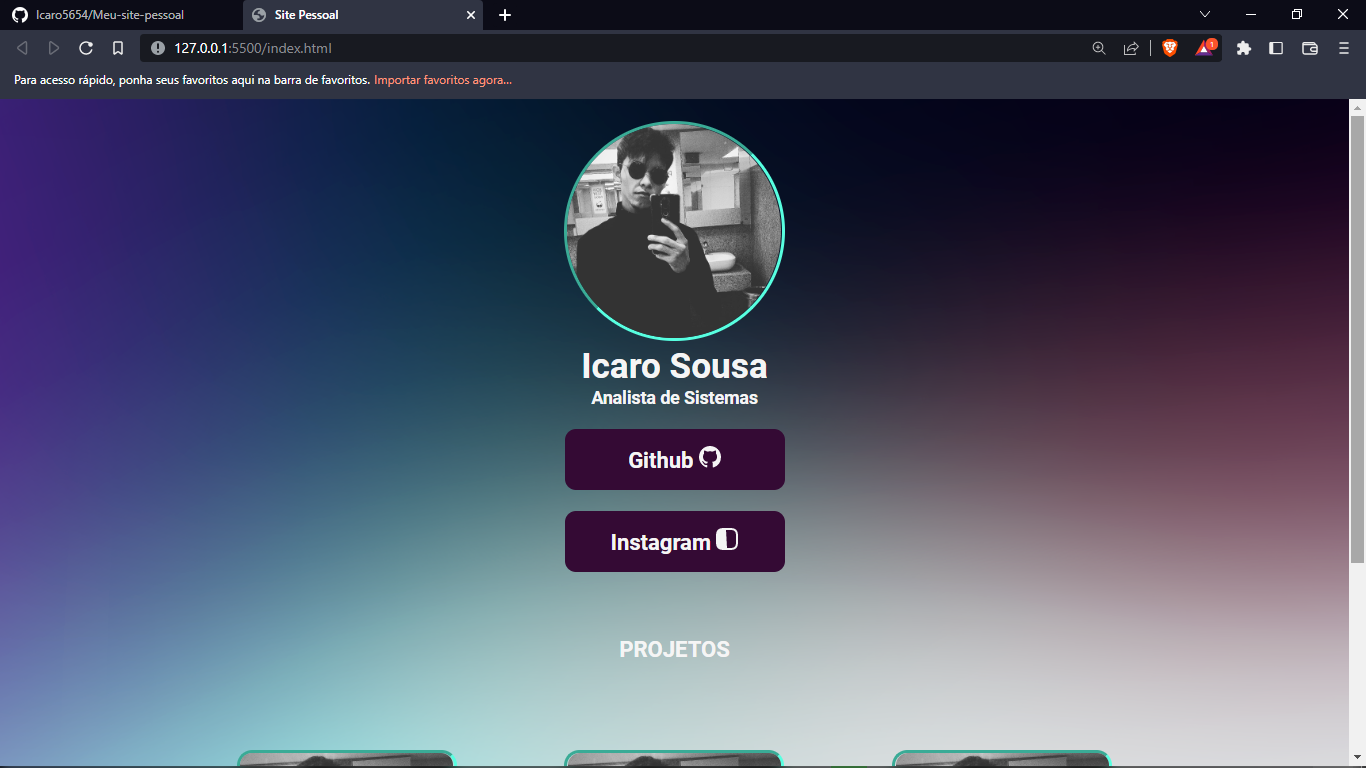
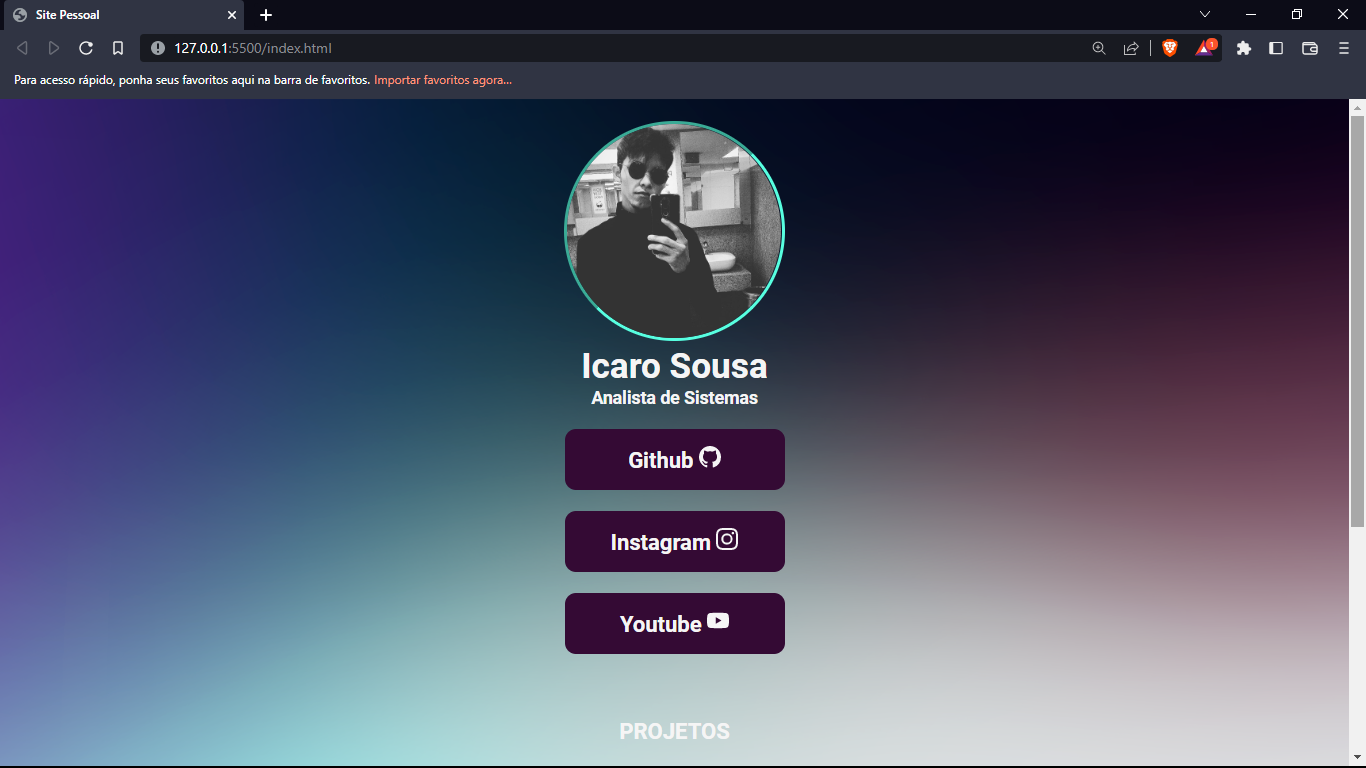
4 commit do site

diff --git a/main.js b/main.js
@@ -1,18 +1,26 @@
 
 //let delay = -0.4;
 
-function createCard(project, preview){
+// CRIANDO FUNÇÃO:
+function createCard(project, preview, link){
     //delay = delay + 0.4;
     return `
     <div class="card" style="width: 18rem;">
-    <img src="/img/${preview}.png" class="card-img" alt="Projeto " width="200">
-    <div class="card-body">
-  <p class="card-text">${project}</p>
+      <a href="${link}" target="__blank__"> <!--link imbutido na imagem--!>
+        <img src="/img/${preview}.png" class="card-img" alt="Projeto " width="200">
+      </a>
+      <div class="card-body">
+        <p class="card-text">${project}</p>
+      </div>
     </div>
-</div>
     `
 }
 
+// CHAMANDO FUNÇÃO:
 document.querySelector("#cards").innerHTML = 
+// os intens estanos na seguinte ordem: ( PROJETO, PREVIEW, LINK )
+createCard("Em breve", "surpresa", "https://github.com/Icaro5654/Calendario-da-Copa.git") + 
 
-createCard("Em breve", "Icaro2") + createCard("Em breve", "Icaro2") + createCard("Em breve", "Icaro2")
+createCard("Em breve", "surpresa", "#") + 
+
+createCard("Em breve", "surpresa", "#")

diff --git a/index.html b/index.html
@@ -15,7 +15,7 @@
 <body>
     <main>
         <div id="content">   
-            <img id="photo" src="/img/Icaro2.png" alt="Icaro">
+            <img id="photo" src="/img/perfil.png" alt="Icaro">
             <h1>Icaro Sousa</h1>
             <p>Analista de Sistemas</p>
 
@@ -96,10 +96,12 @@
 
     <!------------------FOOTER------------------------------------------->
 
-        <div class="">
+        <div class="footer">
             <br>
             <footer>
                 <p>Developed by <a href="https://github.com/Icaro5654">Icaro Sousa Pereira</a>. © 2022 All Rights Reserved.</p>
+                <br>
+                <h5>Telefone: (+55) 92 9999-9999 </h5> 
             </footer>
         </div>
     </main>

diff --git a/styles/style.css b/styles/style.css
@@ -82,4 +82,6 @@ h2{
 
 footer{
     border-top: 1px solid;
+    /*background-color: rgb(6, 103, 116)*/
+    background-image: url('/img/logo.svg'); 
 }

diff --git a/Readme.md b/Readme.md
@@ -23,7 +23,7 @@
 
 <p align="center">
 
-  <img alt="Site pessoal" src=".github/Site_pessoal_preview_2.png" width="100%">
+  <img alt="Site pessoal" src=".github/preview2.png" width="100%">
 
 </p>
 
